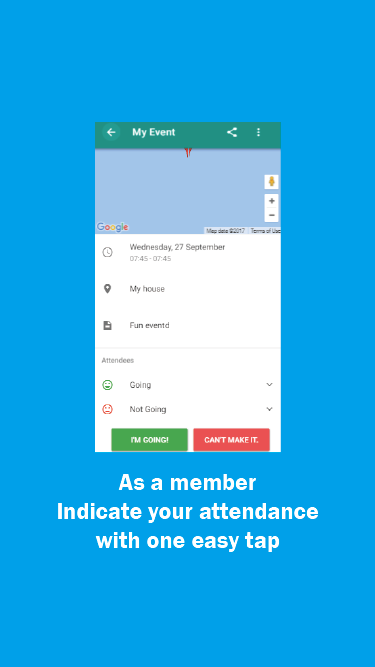
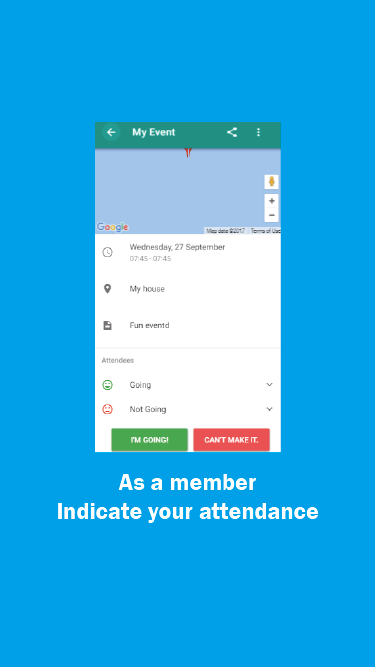
fix group buttons, update tutorial

Changed region(s): [[0.264, 0.7796, 0.7627, 0.8396]]

diff --git a/src/components/Group.vue b/src/components/Group.vue
@@ -51,17 +51,6 @@
         <icon name="plus"></icon>
       </v-btn>
     </div>
-    <v-dialog class="deleteGroup" v-model="dialog2" persistent v-if="noMember">
-      <v-card>
-        <v-card-text>
-          <div>Share your group with the share button on the right top!</div>
-        </v-card-text>
-        <v-card-actions>
-          <v-spacer></v-spacer>
-          <v-btn class="blue--text darken-1" flat @click.native="dialog2 = false">Got it</v-btn>
-        </v-card-actions>
-      </v-card>
-    </v-dialog>
   </v-container>
 </template>
 
@@ -138,6 +127,15 @@ export default {
 </script>
 
 <style lang="stylus" scoped>
+
+.eventList
+  margin-left: 10px
+
+.eventList
+  margin-left: 10px
+
+.eventList
+  margin-left: 10px
 
 .button-wrapper
   position: relative

diff --git a/src/components/GroupAttendance.vue b/src/components/GroupAttendance.vue
@@ -13,7 +13,7 @@
           </v-list-tile-content>
         </v-list-tile>
       </v-list>
-      <v-btn v-if="admin" class="download" success dark large @click="download">Download Attendance Summary</v-btn>
+      <v-btn v-if="admin" @click="download" class="downloading" success dark large>Download Attendance Summary</v-btn>
     </div>
   </v-container>
 </template>
@@ -41,7 +41,7 @@ export default {
     },
   },
 
-  method: {
+  methods: {
     download() {
       this.$store.dispatch('downloadAttendance', { groupId: this.groupId })
     },
@@ -50,7 +50,7 @@ export default {
 </script>
 
 <style lang="stylus" scoped>
-.download
+.downloading
   width: 90%
   margin-left: 5%
   margin-right: 5%

diff --git a/src/components/Tutorial.vue b/src/components/Tutorial.vue
@@ -11,7 +11,7 @@
           <v-divider></v-divider>
           <v-stepper-step :step="4" editable>RSVP</v-stepper-step>
           <v-divider></v-divider>
-          <v-stepper-step :step="5">Attend!</v-stepper-step>
+          <v-stepper-step :step="5" editable>Attend!</v-stepper-step>
         </v-stepper-header>
         <div v-show="tutorialState === 1">
           <v-card>
